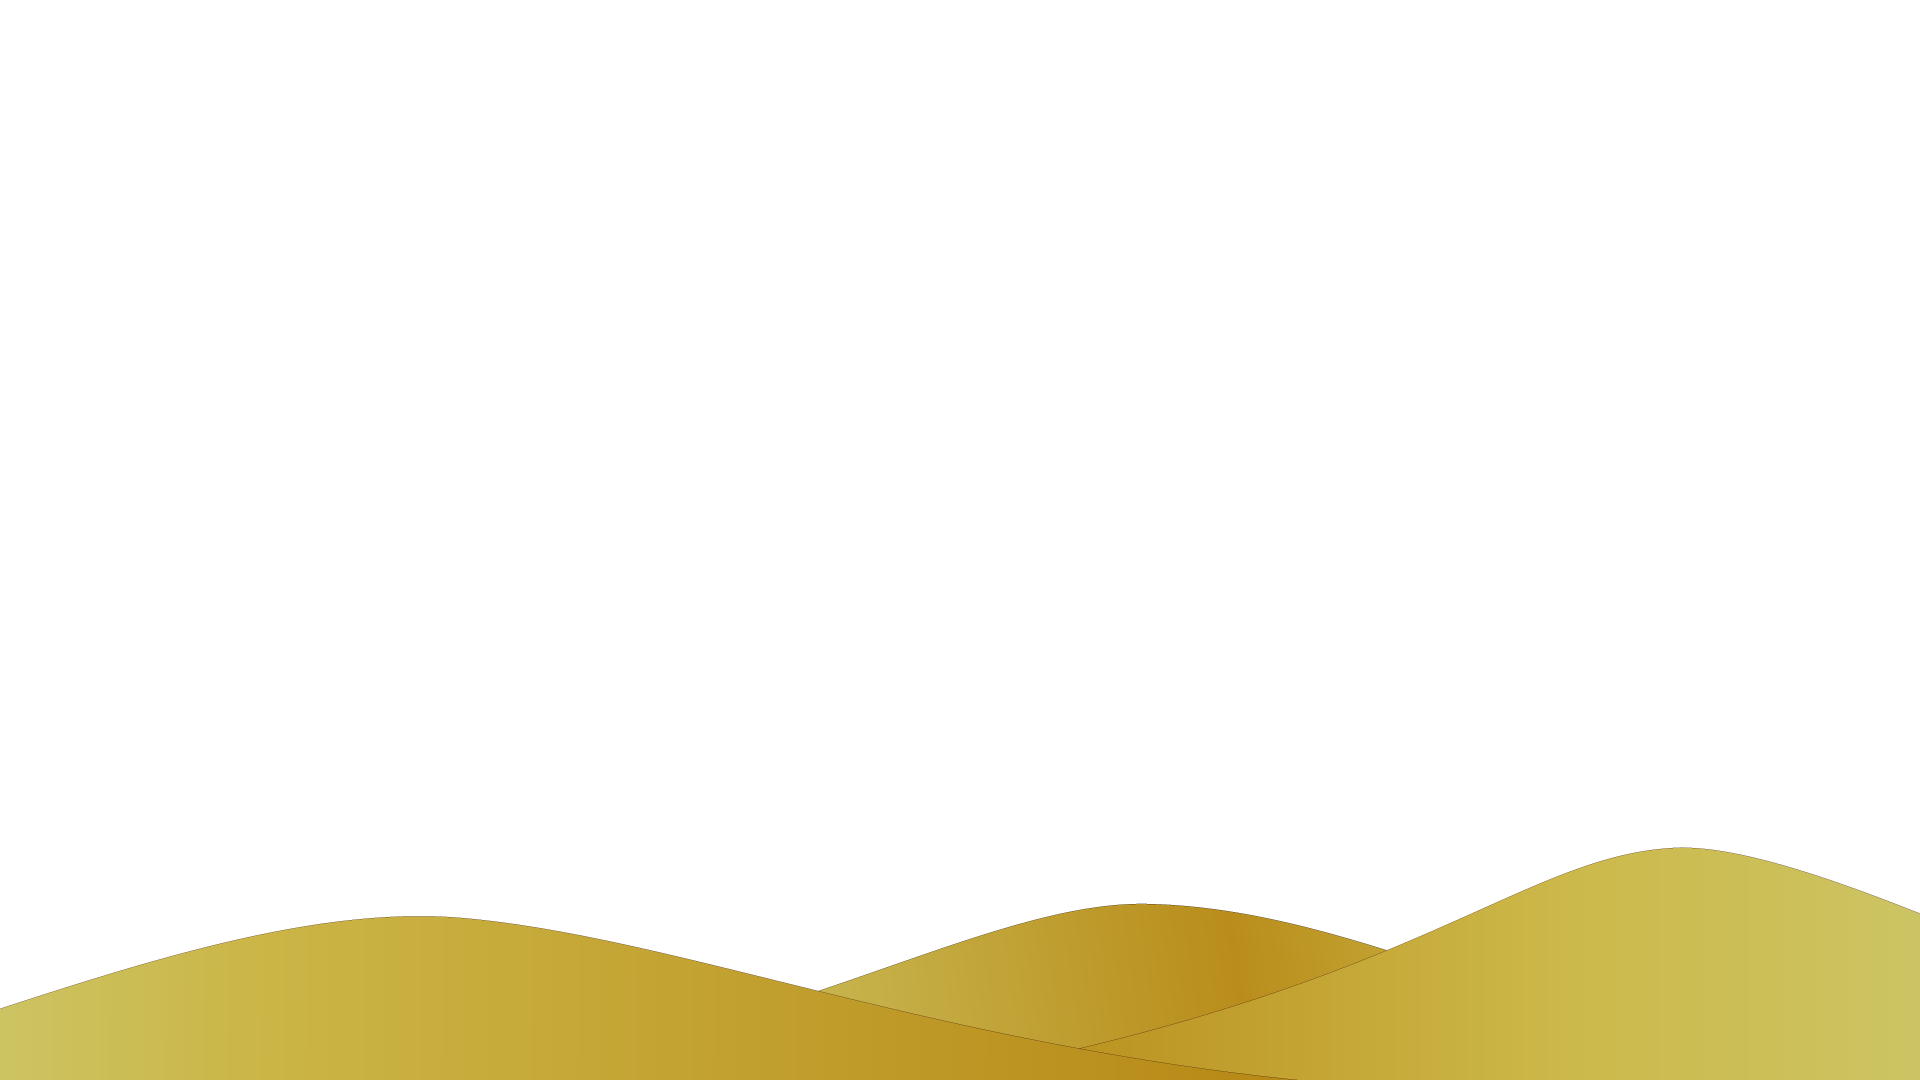
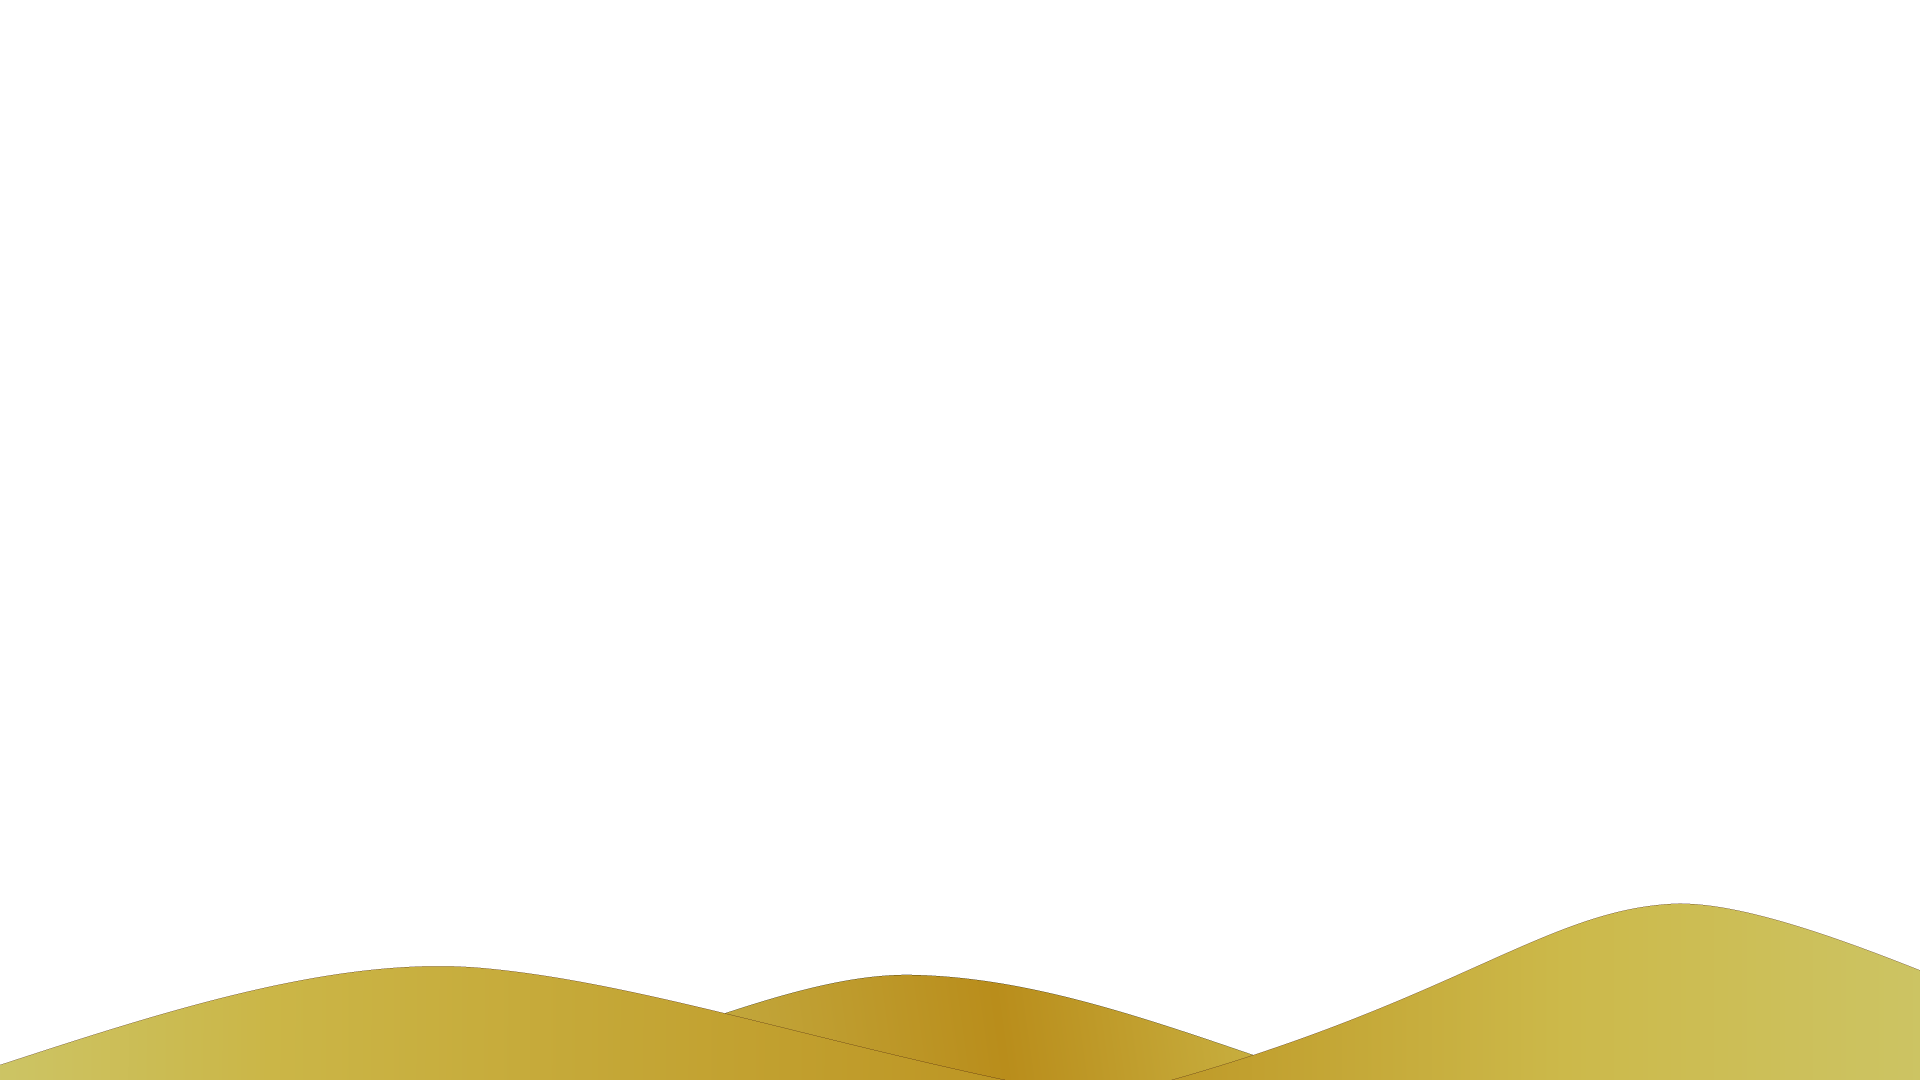
update

Changed region(s): [[0.0, 0.7639, 1.0, 1.0]]

diff --git a/homepage.html b/homepage.html
@@ -30,10 +30,9 @@
   
 
   <main class="main">
-    <img src="imagens/deserto-frente2.png" alt="Deserto-frente" class="deserto-frente">
+    <img src="imagens/deserto-frente.png" alt="Deserto-frente" class="deserto-frente">
     <img src="imagens/deserto-noite.png" alt="Deserto" class="deserto">
-    <img id="aviao" src="imagens/vermelho-puzzle.png
-    " alt="Aviao" class="aviao">
+    <img id="aviao" src="imagens/aviao_vermelho.png" alt="Aviao" class="aviao">
 
     <h1>O Principezinho</h1>
     <h2>Ajuda o aviador a regressar a casa!</h2>

diff --git a/js/homepage.js b/js/homepage.js
@@ -2,7 +2,7 @@
 document.addEventListener("DOMContentLoaded", function () {
     const aviao = document.getElementById('aviao');
     aviao.addEventListener('animationend', function () {
-      aviao.src = 'imagens/elices.png';
+      aviao.src = 'imagens/pretopuzzle2.png';
     });
   });
   
